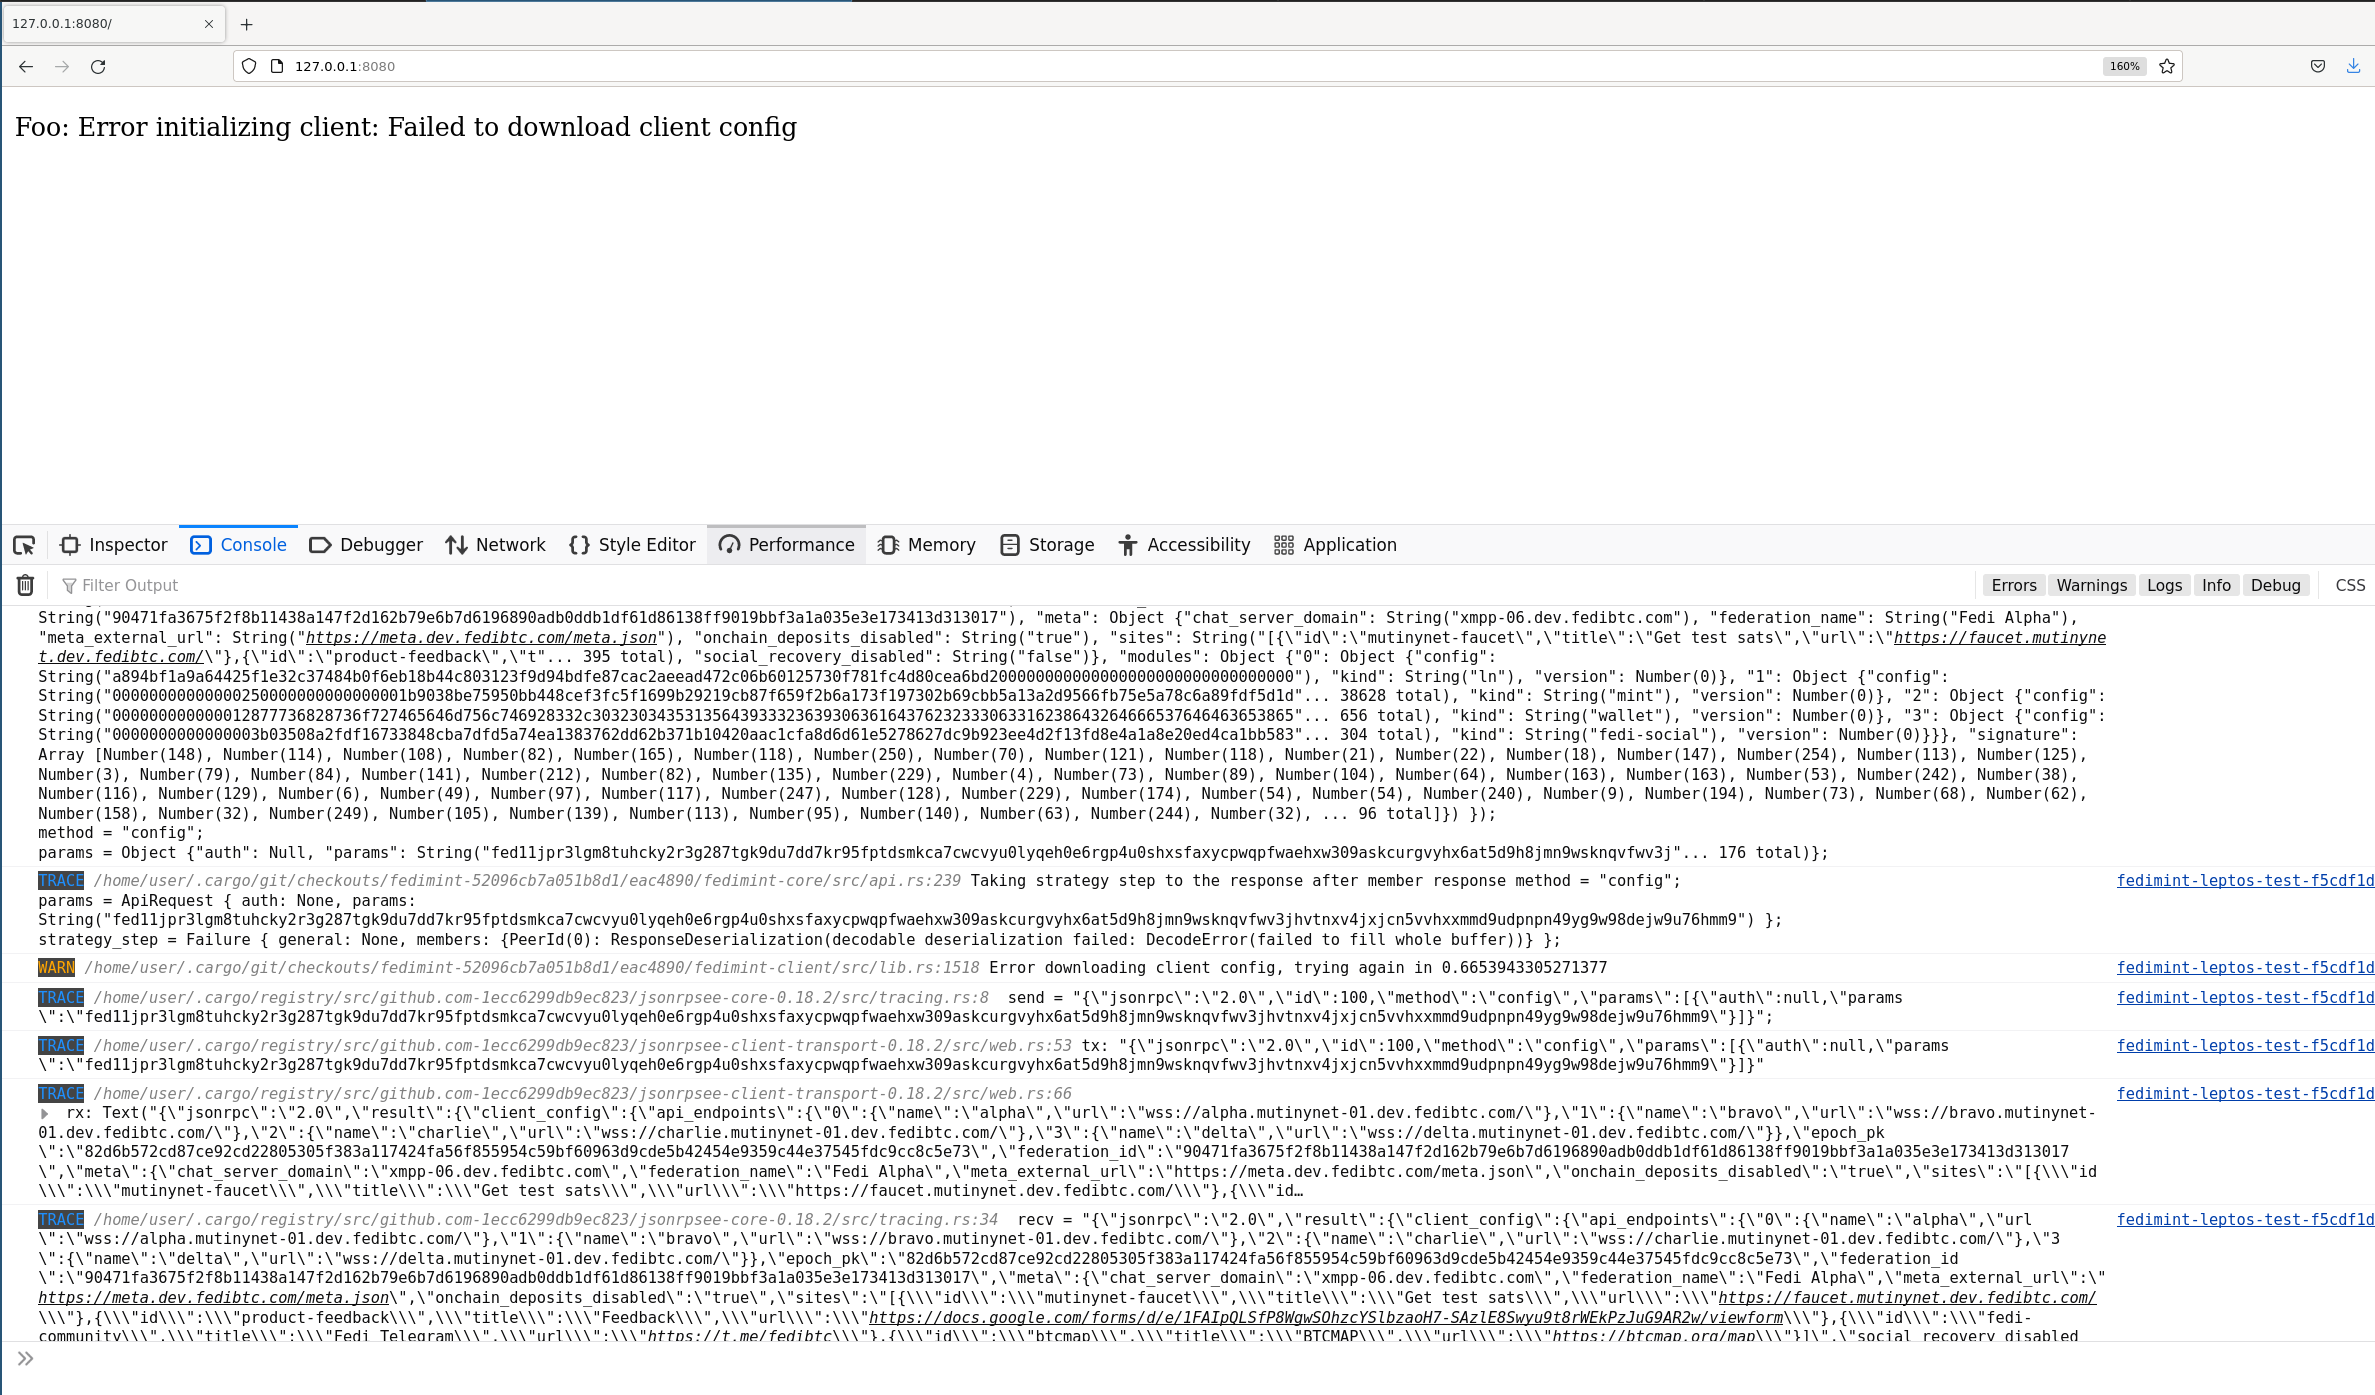
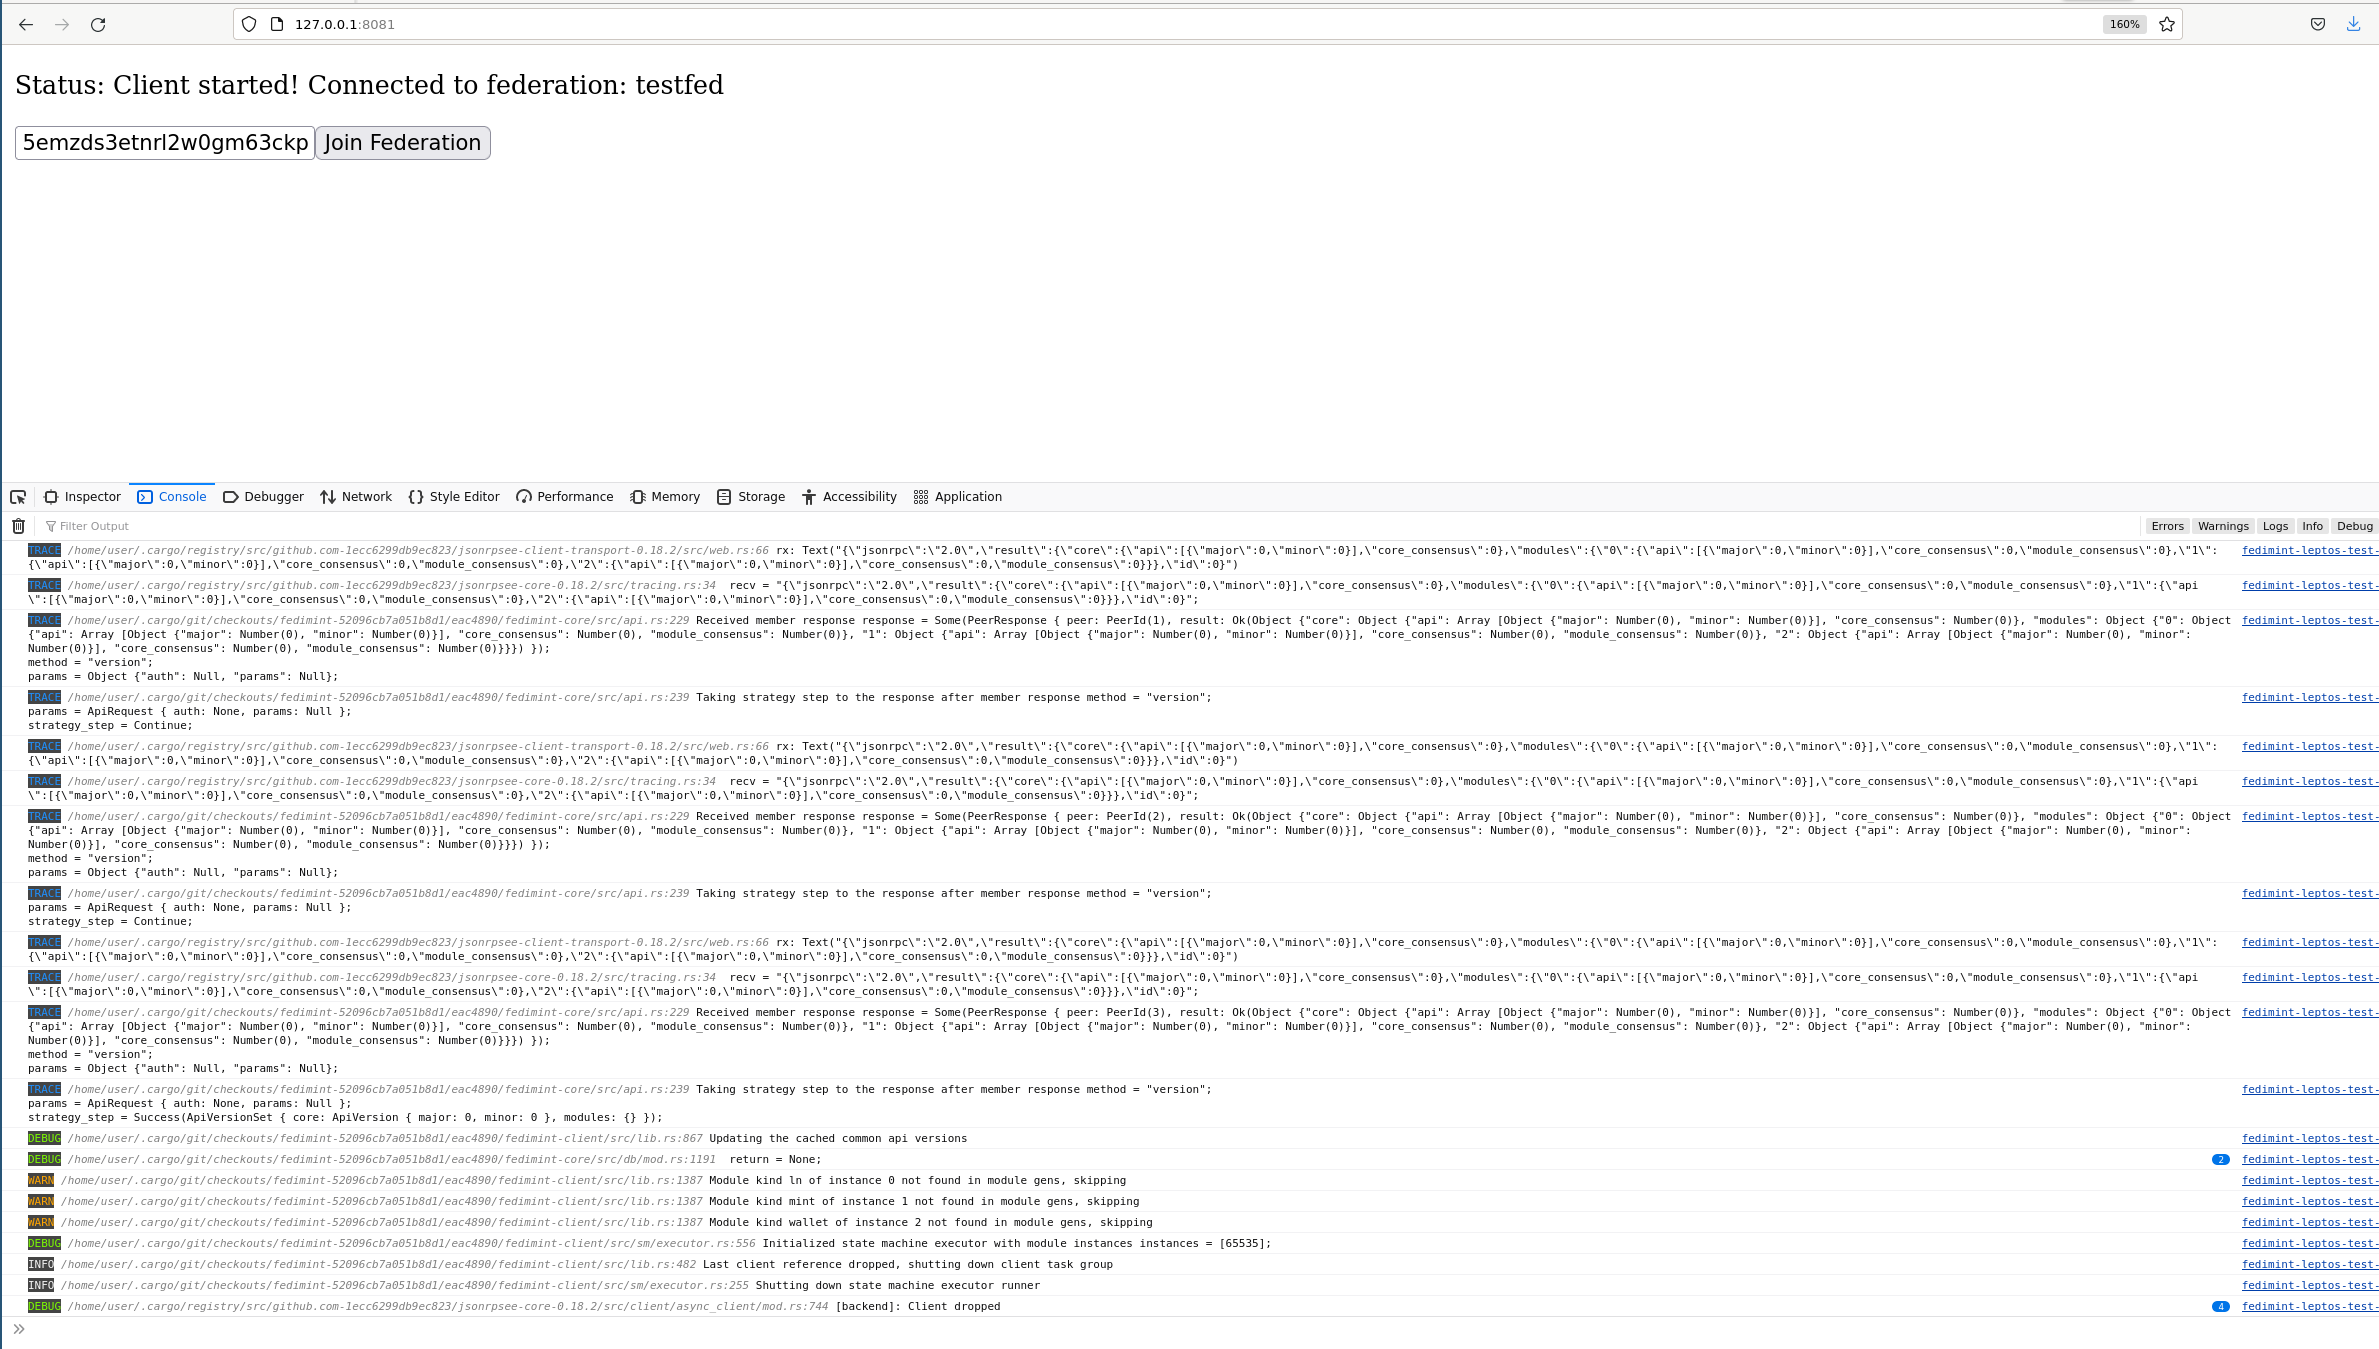
implement joining with invitation code

diff --git a/src/main.rs b/src/main.rs
@@ -1,21 +1,51 @@
 mod db;
 
 use fedimint_client::secret::PlainRootSecretStrategy;
+use fedimint_core::api::InviteCode;
 use fedimint_core::db::mem_impl::MemDatabase;
-use fedimint_core::task::TaskGroup;
+use fedimint_core::task::{sleep, TaskGroup};
+use leptos::ev::SubmitEvent;
+use leptos::html::Input;
 use leptos::*;
+use std::str::FromStr;
+use std::time::Duration;
 
 pub fn main() {
     tracing_wasm::set_as_global_default();
 
-    let (info_sender, info_receiver) = tokio::sync::mpsc::channel::<String>(1);
-    let tg = TaskGroup::new();
+    let (invite_sender, mut invite_receiver) = tokio::sync::mpsc::channel::<String>(10);
+    let (info_sender, info_receiver) = tokio::sync::mpsc::channel::<String>(100);
 
     wasm_bindgen_futures::spawn_local(async move {
+        sleep(Duration::from_millis(1000)).await;
+
+        info_sender
+            .send(format!("Awaiting join code"))
+            .await
+            .unwrap();
+
+        let invite_code = loop {
+            let invite_code_str = invite_receiver
+                .recv()
+                .await
+                .expect("Sender dropped unexpectedly");
+            match InviteCode::from_str(&invite_code_str) {
+                Ok(invite) => break invite,
+                Err(e) => {
+                    info_sender
+                        .send(format!("Invalid invite code: {e:?}"))
+                        .await
+                        .unwrap();
+                }
+            }
+        };
+
         info_sender.send(format!("Starting client")).await.unwrap();
         let mut client_builder = fedimint_client::Client::builder();
         client_builder.with_database(MemDatabase::new());
[1 lines of base64/hex data omitted]
+        client_builder.with_primary_module(1);
+        client_builder.with_invite_code(invite_code);
+        let tg = TaskGroup::new();
         let client_res = client_builder.build::<PlainRootSecretStrategy>(tg).await;
 
         let client = match client_res {
@@ -43,8 +73,38 @@ pub fn main() {
     console_error_panic_hook::set_once();
     mount_to_body(|cx| {
         let info_signal = create_signal_from_stream(cx, info_stream);
+
+        let invite_code_element: NodeRef<Input> = create_node_ref(cx);
+        let on_submit = move |ev: SubmitEvent| {
+            // stop the page from reloading!
+            ev.prevent_default();
+
+            // here, we'll extract the value from the input
+            let value = invite_code_element
+                .get()
+                // event handlers can only fire after the view
+                // is mounted to the DOM, so the `NodeRef` will be `Some`
+                .expect("<input> to exist")
+                // `NodeRef` implements `Deref` for the DOM element type
+                // this means we can call`HtmlInputElement::value()`
+                // to get the current value of the input
+                .value();
+            invite_sender.blocking_send(value).expect("Can send");
+        };
+
         view! { cx,
-            <p>"Foo: " {info_signal}</p>
+            <p>"Status: " {info_signal}</p>
+            <form on:submit=on_submit>
+                <input
+                    type="text"
+                    placeholder="Invite Code, i.e. fed11jpr3lgm8t…"
+                    node_ref=invite_code_element
+                />
+                <input
+                    type="submit"
+                    value="Join Federation"
+                />
+            </form>
         }
     });
 }
